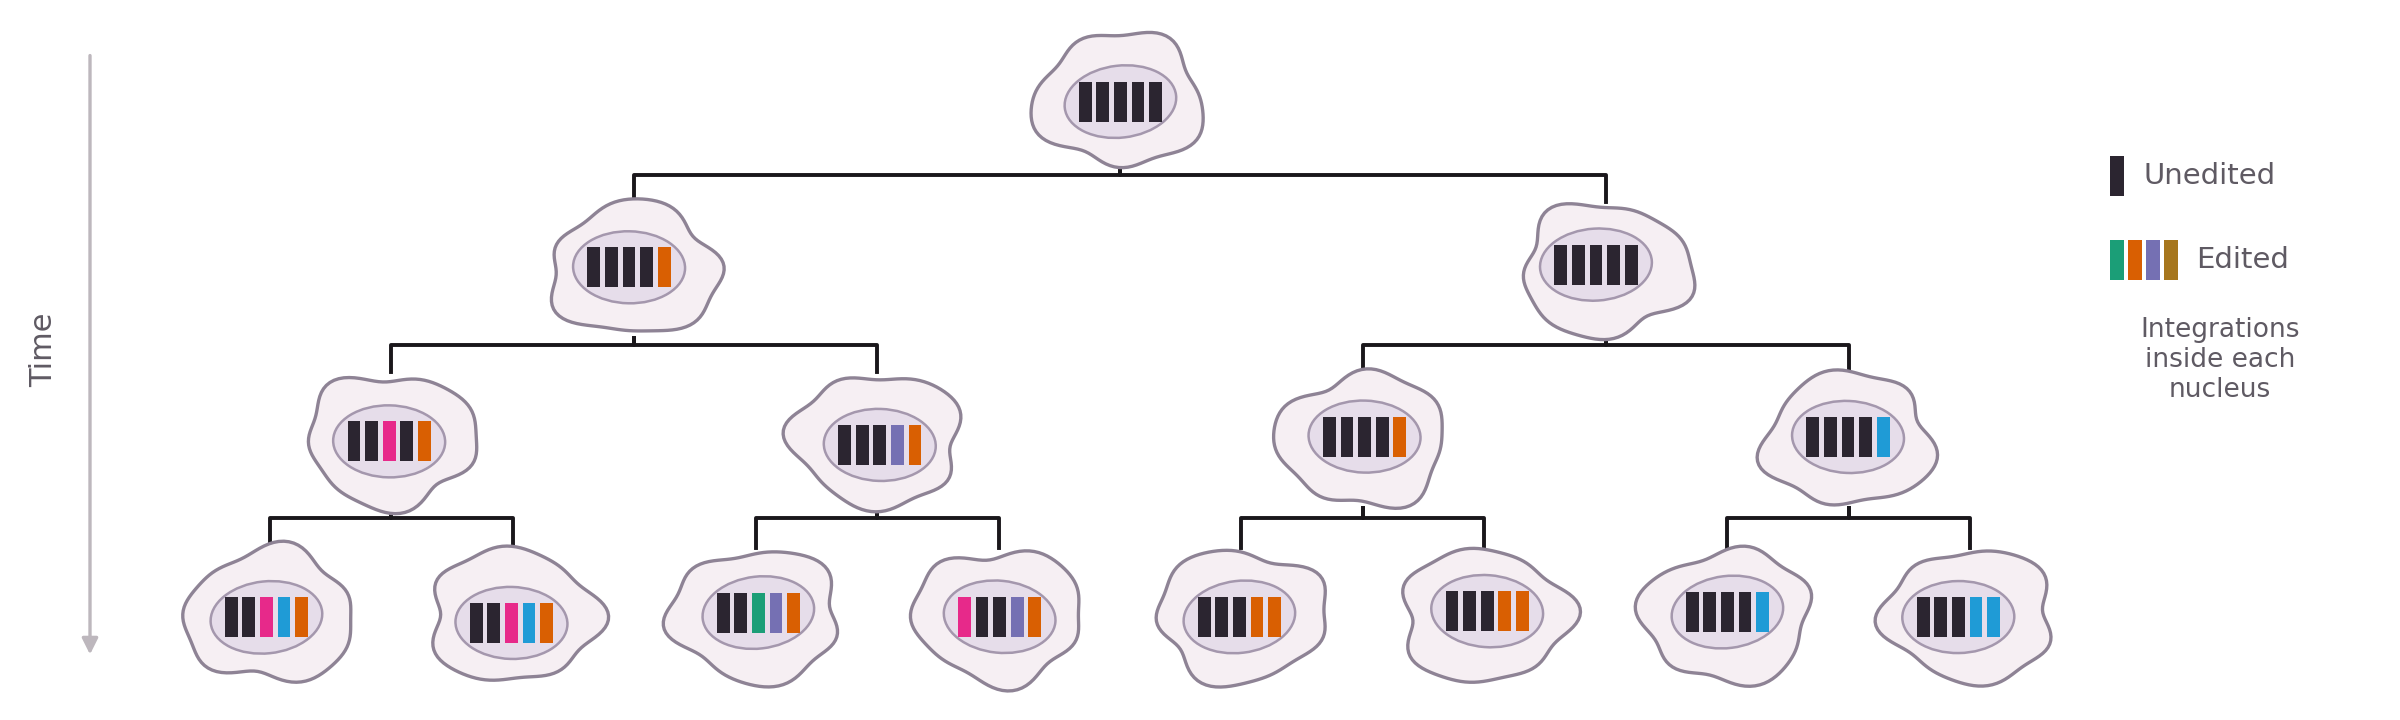
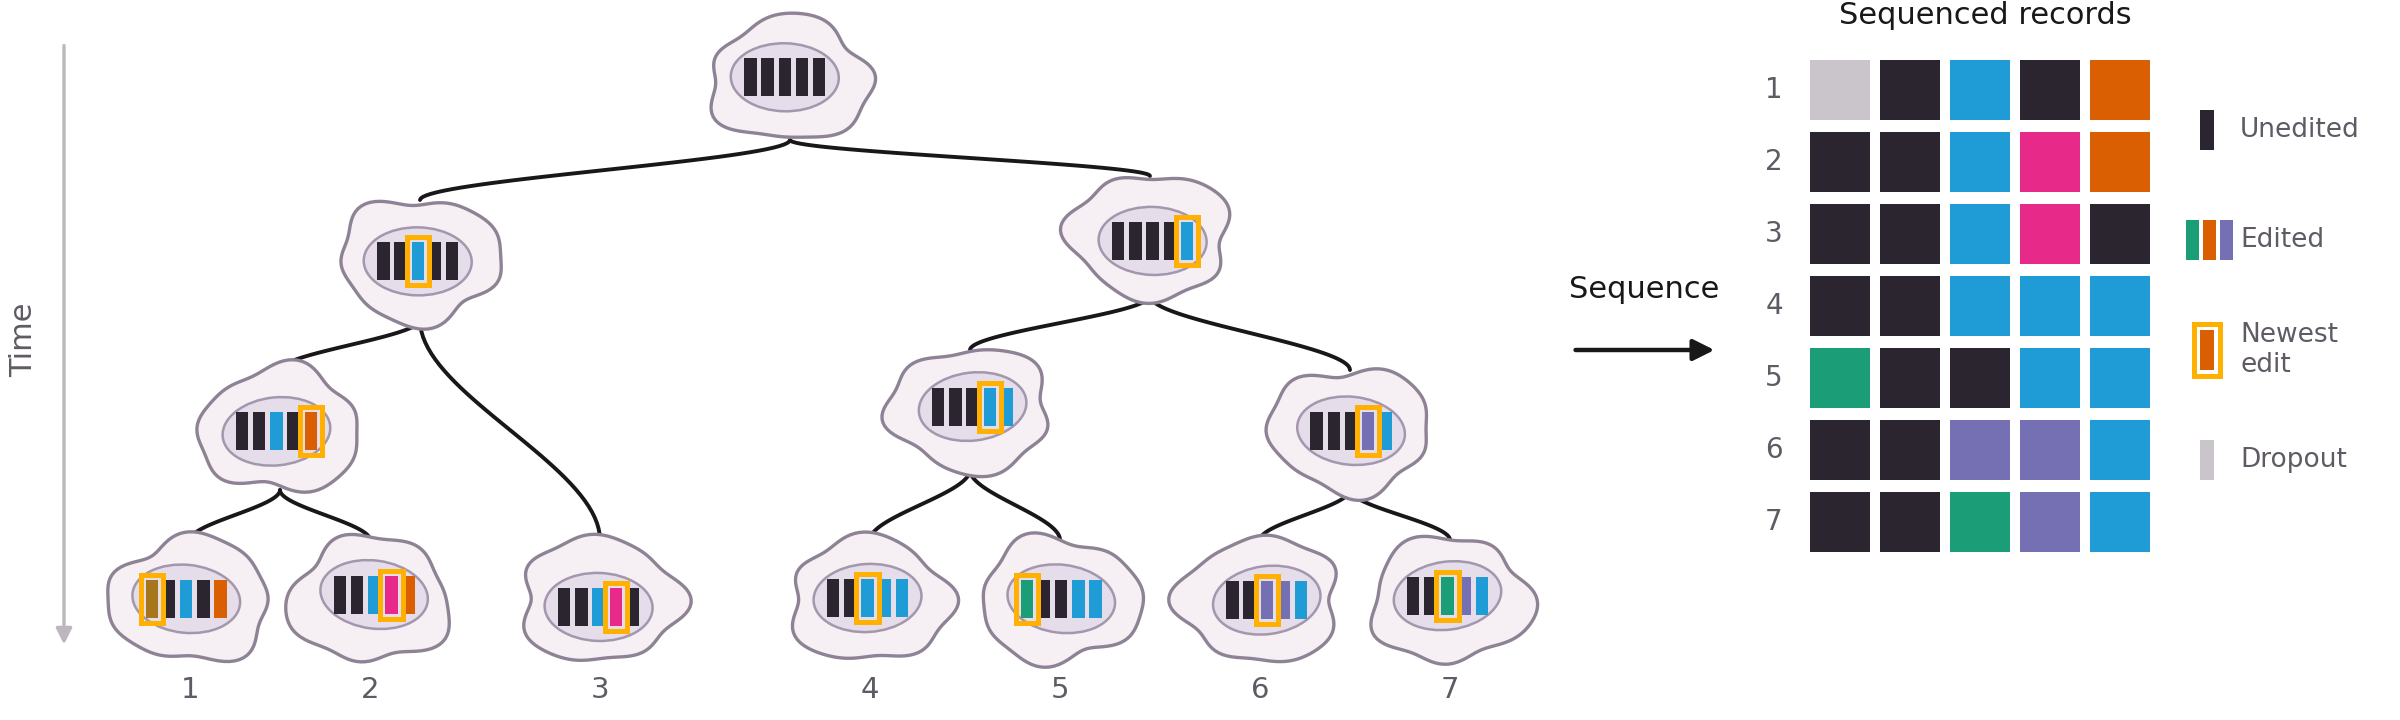
Natural lineage tree, newest edit ringed, sequencing step; cell states aligned to human

diff --git a/bin/make_research_art.py b/bin/make_research_art.py
@@ -1,7 +1,8 @@
 """Draw the three research-area images for the about page, wide and short so each spans the page.
 
   lineage.png   a lineage tree with a cell at each node; the recorder integrations inside each nucleus
-                accumulate edits division by division (colored as in the research statement)
+                accumulate edits division by division, the newest one ringed, and the sampled cells are
+                sequenced into a character matrix (colored as in the research statement)
   fate.png      a small simulation: clones grow and divide across a tissue with a signal gradient,
                 shown once colored by clone and once colored by the fate each cell took
   transfer.png  a phylogeny with a silhouette per species, a functional genomics signal track for each
@@ -57,18 +58,31 @@ def text(ax, x, y, s, **kw):
 
 
 # =============================== 1. lineage ===============================
-# A lineage tree drawn with a cell at every node. Each cell carries the same set of recorder
-# integrations inside its nucleus; every division writes a new edit into one integration of a daughter,
-# so the edits accumulate down the tree and each sampled cell ends with its own record.
+# A lineage tree drawn with a cell at every division and at every sampled tip. Division times vary and
+# the tree is unbalanced, as a real one is. Each cell carries the same recorder integrations in its
+# nucleus; a division writes a new edit into one integration of a daughter (the newest edit in each
+# cell is ringed), so edits accumulate down the tree. On the right the sampled cells are sequenced,
+# which reads their records out as the rows of a character matrix.
 fig, ax = canvas()
 rng = np.random.default_rng(9)
 NSITE = 5
-LEVELS = [3.1, 2.25, 1.4, 0.52]                    # cell centers, root at the top
-LEAF_X = np.linspace(1.35, 9.85, 8)
 UNEDITED = "#2B2530"
+NEW = "#FFB000"
+TIPY = 0.6
+# the tree: name -> (x, y of the cell, children); y is the time of division, tips sit at sampling time
+TREE = {
+    "r": (3.95, 3.2, ["A", "B"]),
+    "A": (2.1, 2.3, ["A1", "t3"]),
+    "A1": (1.4, 1.45, ["t1", "t2"]),
+    "B": (5.75, 2.42, ["B1", "B2"]),
+    "B1": (4.85, 1.55, ["t4", "t5"]),
+    "B2": (6.75, 1.45, ["t6", "t7"]),
+}
+TIPS = ["t1", "t2", "t3", "t4", "t5", "t6", "t7"]
+TIPX = dict(zip(TIPS, [0.95, 1.85, 3.0, 4.35, 5.3, 6.3, 7.25]))
 
 
-def cell(x, y, sites, rx=0.42, ry=0.33, seed=0):
+def cell(x, y, sites, new=None, rx=0.4, ry=0.31, seed=0):
     """A cell with an irregular outline, and a nucleus holding the integration sites."""
     r = np.random.default_rng(seed)
     th = np.linspace(0, 2 * np.pi, 120)
@@ -77,45 +91,83 @@ def cell(x, y, sites, rx=0.42, ry=0.33, seed=0):
     ax.add_patch(Polygon(np.c_[x + rx * wob * np.cos(th), y + ry * wob * np.sin(th)], closed=True,
                          fc="#F6EFF3", ec="#8E8395", lw=1.2, zorder=3))
     nx, ny = x + r.normal(0, 0.02), y + r.normal(0, 0.015)
-    ax.add_patch(matplotlib.patches.Ellipse((nx, ny), 0.56, 0.36, angle=r.uniform(-8, 8),
+    ax.add_patch(matplotlib.patches.Ellipse((nx, ny), 0.54, 0.34, angle=r.uniform(-8, 8),
                                             fc="#E6DDEA", ec="#A497AD", lw=0.9, zorder=4))
-    w, gap = 0.064, 0.024
+    w, gap = 0.062, 0.024
     x0 = nx - (NSITE * w + (NSITE - 1) * gap) / 2
     for s in range(NSITE):
         c = sites[s] if sites[s] is not None else UNEDITED
-        ax.add_patch(Rectangle((x0 + s * (w + gap), ny - 0.1), w, 0.2, fc=c, ec="none", zorder=5))
+        ax.add_patch(Rectangle((x0 + s * (w + gap), ny - 0.095), w, 0.19, fc=c, ec="none", zorder=5))
+        if s == new:                                            # the edit this cell's division wrote
+            ax.add_patch(Rectangle((x0 + s * (w + gap) - 0.025, ny - 0.12), w + 0.05, 0.24, fc="none",
+                                   ec=NEW, lw=1.8, zorder=6))
 
 
-def grow(level, lo, hi, sites, px=None, py=None, node=0):
-    x = float(np.mean(LEAF_X[lo:hi]))
-    y = LEVELS[level]
-    if px is not None:                           # the branch from the parent, with the edit it wrote
-        ax.plot([px, px, x, x], [py - 0.34, (py + y) / 2 + 0.05, (py + y) / 2 + 0.05, y + 0.34],
-                color=INK, lw=1.4, solid_joinstyle="round", zorder=2)
-    cell(x, y, sites, seed=node)
-    if level == len(LEVELS) - 1:
-        return
-    mid = (lo + hi) // 2
-    for k, (a, b) in enumerate(((lo, mid), (mid, hi))):
+def branch(x0, y0, x1, y1):
+    """A smooth branch from the bottom of a parent cell to the top of a daughter."""
+    t = np.linspace(0, 1, 40)
+    ya, yb = y0 - 0.3, y1 + 0.3
+    xs_ = x0 + (x1 - x0) * (3 * t ** 2 - 2 * t ** 3)
+    ys_ = ya + (yb - ya) * t
+    ax.plot(xs_, ys_, color=INK, lw=1.4, solid_capstyle="round", zorder=2)
+
+
+RECORD = {}
+
+
+def grow(name, sites, new, seed):
+    RECORD[name] = sites
+    if name in TREE:
+        x, y, kids = TREE[name]
+    else:
+        x, y, kids = TIPX[name], TIPY, []
+    cell(x, y, sites, new, seed=seed)
+    for k, kid in enumerate(kids):
         child = list(sites)
         free = [s for s in range(NSITE) if child[s] is None]
-        if free and rng.random() < 0.9:
-            s = int(rng.choice(free))
-            child[s] = ALLELES[int(rng.integers(len(ALLELES)))]
-        grow(level + 1, a, b, child, x, y, node * 2 + 1 + k)
+        knew = None
+        if free:
+            knew = int(rng.choice(free))
+            child[knew] = ALLELES[int(rng.integers(len(ALLELES)))]
+        kx, ky = (TREE[kid][0], TREE[kid][1]) if kid in TREE else (TIPX[kid], TIPY)
+        branch(x, y, kx, ky)
+        grow(kid, child, knew, seed * 2 + 1 + k)
 
 
-grow(0, 0, 8, [None] * NSITE)
-ax.add_patch(FancyArrowPatch((0.45, 3.35), (0.45, 0.3), arrowstyle="-|>", mutation_scale=12, color=GREY, lw=1.2))
-text(ax, 0.22, 1.85, "Time", fontsize=11, rotation=90)
+grow("r", [None] * NSITE, None, 1)
+for i, t in enumerate(TIPS):
+    text(ax, TIPX[t], TIPY - 0.45, str(i + 1), fontsize=10.5, color=MUTED)
+ax.add_patch(FancyArrowPatch((0.32, 3.4), (0.32, 0.35), arrowstyle="-|>", mutation_scale=12, color=GREY, lw=1.2))
+text(ax, 0.12, 1.9, "Time", fontsize=11, rotation=90)
+
+# sequencing: the sampled cells' records read out as the rows of a character matrix
+ax.add_patch(FancyArrowPatch((7.85, 1.85), (8.6, 1.85), arrowstyle="-|>", mutation_scale=16, color=INK, lw=1.6))
+text(ax, 8.22, 2.15, "Sequence", fontsize=11, color=INK)
+MX, MY, cw, ch = 9.05, 3.0, 0.3, 0.3
+for i, t in enumerate(TIPS):
+    y = MY - i * (ch + 0.06)
+    text(ax, MX - 0.18, y + ch / 2, str(i + 1), fontsize=10, color=MUTED)
+    for s in range(NSITE):
+        c = RECORD[t][s] if RECORD[t][s] is not None else UNEDITED
+        if rng.random() < 0.06:
+            c = DROPOUT                                        # the readout failed at this site
+        ax.add_patch(Rectangle((MX + s * (cw + 0.05), y), cw, ch, fc=c, ec="none", zorder=3))
+text(ax, MX + NSITE * (cw + 0.05) / 2, 3.52, "Sequenced records", fontsize=11, color=INK)
 # key
-KX = 10.55
-ax.add_patch(Rectangle((KX, 2.62), 0.07, 0.2, fc=UNEDITED, ec="none"))
-text(ax, KX + 0.17, 2.72, "Unedited", fontsize=10.5, ha="left")
-for j, c in enumerate(ALLELES[:4]):
-    ax.add_patch(Rectangle((KX + j * 0.09, 2.2), 0.07, 0.2, fc=c, ec="none"))
-text(ax, KX + 0.43, 2.3, "Edited", fontsize=10.5, ha="left")
-text(ax, KX + 0.55, 1.8, "Integrations\ninside each\nnucleus", fontsize=9.5, color=MUTED)
+KX = 11.0
+for k, (lab, draw) in enumerate((("Unedited", "u"), ("Edited", "e"), ("Newest\nedit", "n"), ("Dropout", "d"))):
+    y = 2.95 - k * 0.55
+    if draw == "u":
+        ax.add_patch(Rectangle((KX, y - 0.1), 0.07, 0.2, fc=UNEDITED, ec="none"))
+    elif draw == "e":
+        for j, c in enumerate(ALLELES[:3]):
+            ax.add_patch(Rectangle((KX + j * 0.085 - 0.07, y - 0.1), 0.065, 0.2, fc=c, ec="none"))
+    elif draw == "n":
+        ax.add_patch(Rectangle((KX, y - 0.1), 0.07, 0.2, fc=ORANGE, ec="none"))
+        ax.add_patch(Rectangle((KX - 0.03, y - 0.13), 0.13, 0.26, fc="none", ec=NEW, lw=1.8))
+    else:
+        ax.add_patch(Rectangle((KX, y - 0.1), 0.07, 0.2, fc=DROPOUT, ec="none"))
+    text(ax, KX + 0.2, y, lab, fontsize=9.5, ha="left")
 save(fig, "lineage.png")
 
 # =============================== 2. fate ===============================
@@ -324,8 +376,8 @@ for (lab, key, col), y, k in zip(SPECIES[:3], ROW[:3], (2, 1, 0)):
 text(ax, (TX0 + TX1) / 2, 4.38, "Regulatory elements", fontsize=12, color=INK)
 
 # ---------------- right: a stack of embedding planes, one per species ----------------
-# each cell state is a cluster, placed alike in every species with a small species-specific shift;
-# matching clusters are linked plane to plane, and the two latest states are missing in human
+# each cell state is a cluster, placed alike in every species with a small species-specific shift.
+# Human is the reference and has every state; each model organism lacks some of them (outlined)
 STATES = [("State 1", "#F28E2B", 0.13, 0.5), ("State 2", "#E15759", 0.38, 0.28), ("State 3", "#76B7B2", 0.38, 0.72),
           ("State 4", "#59A14F", 0.72, 0.25), ("State 5", "#B07AA1", 0.78, 0.72)]
 
@@ -335,6 +387,7 @@ def Pk(k, a, b):
     return ox + 3.5 * a + 0.7 * b, oy + 0.62 * b
 
 
+MISSING = {"zebrafish": {2, 4}, "mouse": {4}, "macaque": {3}, "human": set()}
 CENT = []
 for k, (lab, key, col) in enumerate(SPECIES):
     ax.add_patch(Polygon([Pk(k, 0, 0), Pk(k, 1, 0), Pk(k, 1, 1), Pk(k, 0, 1)], closed=True,
@@ -343,7 +396,7 @@ for k, (lab, key, col) in enumerate(SPECIES):
     for j, (sname, sc, ca, cb) in enumerate(STATES):
         ca2, cb2 = ca + rs.normal(0, 0.025), cb + rs.normal(0, 0.04)
         cents[j] = Pk(k, ca2, cb2)
-        if key == "human" and j >= 3:                                   # not sampled in human
+        if j in MISSING[key]:                                           # this species has no such state
             ax.add_patch(Ellipse(cents[j], 0.5, 0.2, fc="none", ec=sc, lw=1.2, ls=(0, (1.5, 1.5)), zorder=11))
             continue
         n = 28
@@ -355,7 +408,7 @@ for k, (lab, key, col) in enumerate(SPECIES):
 for ca, cb in zip(CENT, CENT[1:]):
     for j in range(len(STATES)):
         ax.plot([ca[j][0], cb[j][0]], [ca[j][1], cb[j][1]], color="#9FB6D6", lw=0.9, ls=(0, (3, 2)), zorder=1)
-text(ax, 8.9, 4.38, "Cell states, aligned across species", fontsize=12, color=INK)
+text(ax, 8.9, 4.38, "Cell states, aligned to human", fontsize=12, color=INK)
 for j, (sname, sc, _, _) in enumerate(STATES):
     ax.scatter([6.75 + j * 1.0], [0.2], s=26, color=sc, edgecolors="none")
     text(ax, 6.85 + j * 1.0, 0.2, sname, fontsize=9.5, ha="left")
